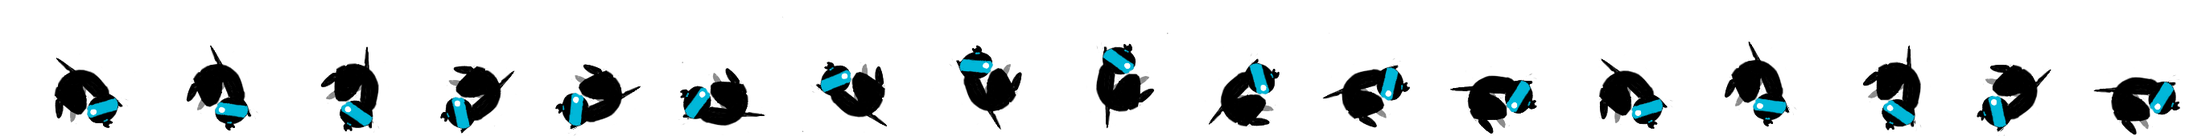
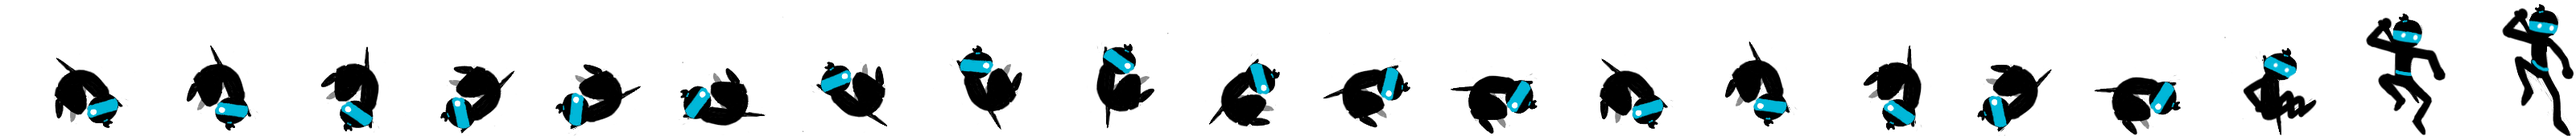
Finish the jumping animation

Changed region(s): [[0.0, 0.0588, 1.0, 1.0]]

diff --git a/FlappyDemo/core/src/com/yinghanxu/game/sprites/Bird.java b/FlappyDemo/core/src/com/yinghanxu/game/sprites/Bird.java
@@ -23,7 +23,7 @@ public class Bird {
     private Animation birdAnimationJump;
     private Animation birdAnimationCollide;
     public Texture texture, textureJump;
-    private int jumpFrameNum, runFrameNum;
+    private int jumpFrameNum = 20, runFrameNum = 15;
     private Sound flap;
     private int groundHeight = 700;
 
@@ -59,10 +59,10 @@ public class Bird {
         //bird = new Texture("bird.png");
         texture = new Texture("player.png");
         textureJump = new Texture("1130jump.png");
-        birdAnimationRun = new Animation(new TextureRegion(texture), 15, 0.8f);
-        birdAnimationJump = new Animation(new TextureRegion(textureJump), 17, 0.8f);
-        birdAnimationCollide = new Animation(new TextureRegion(texture), 15, 0.1f);
-        bounds = new Rectangle(x, y, texture.getWidth() / 15 , texture.getHeight());
+        birdAnimationRun = new Animation(new TextureRegion(texture), runFrameNum, 0.8f);
+        birdAnimationJump = new Animation(new TextureRegion(textureJump), jumpFrameNum, 0.8f);
+        birdAnimationCollide = new Animation(new TextureRegion(texture), runFrameNum, 0.1f);
+        bounds = new Rectangle(x, y, texture.getWidth() / runFrameNum , texture.getHeight());
         flap = Gdx.audio.newSound(Gdx.files.internal("sfx_wing.ogg"));
         colliding = false;
     }
@@ -110,7 +110,7 @@ public class Bird {
         flap.play();    //set the 0.5 volumme
         velocity.y = 1200;
         status = 2;
-        birdAnimationJump = new Animation(new TextureRegion(textureJump), 17, 0.8f);
+        birdAnimationJump = new Animation(new TextureRegion(textureJump), jumpFrameNum, 0.8f);
         //velocity.x = 20; //we can change the x axes so the bird would fly ahead
     }
 
